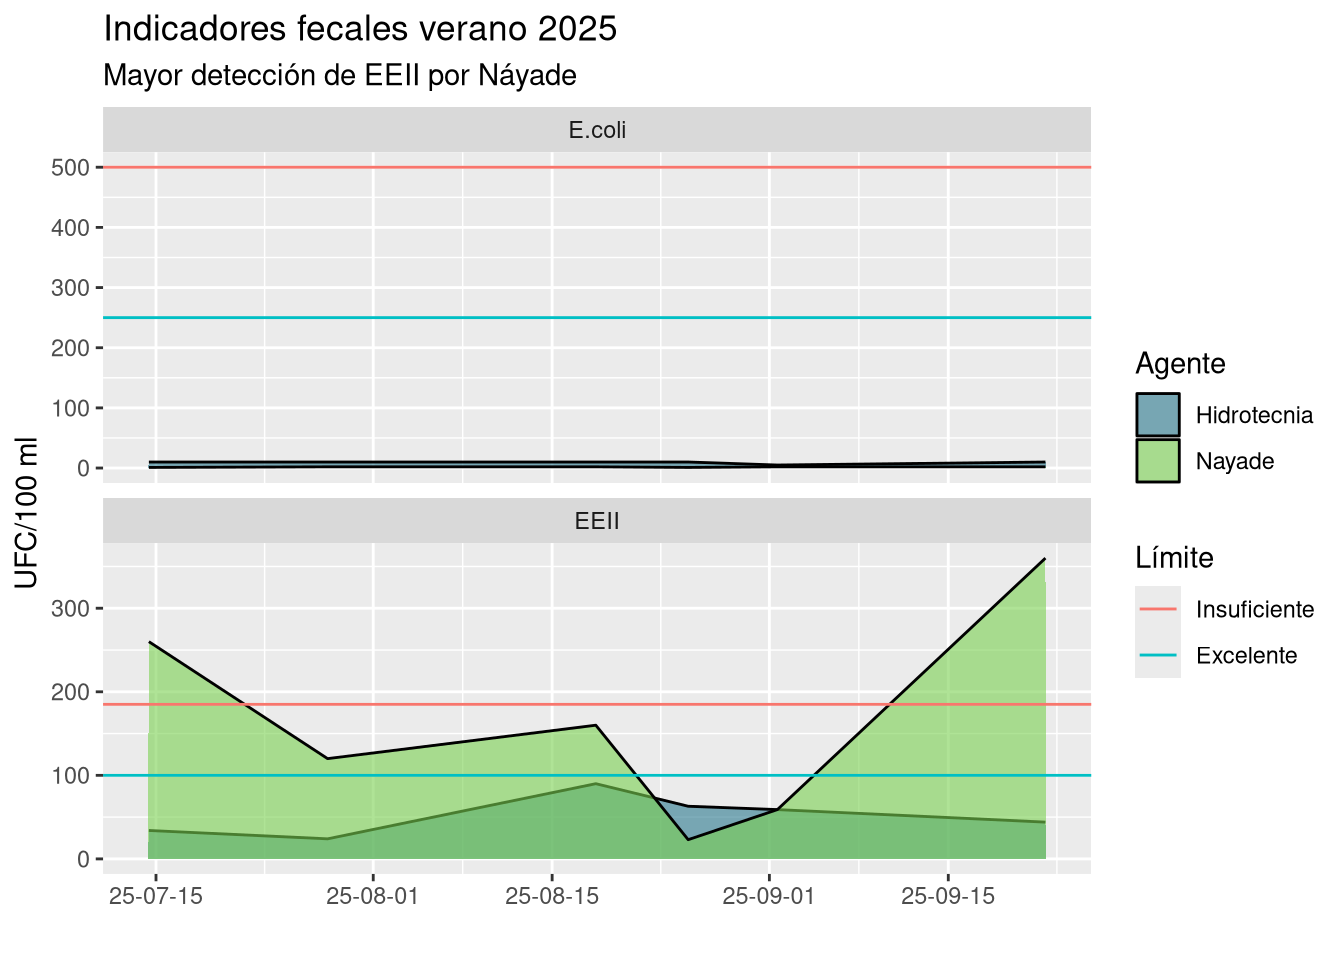
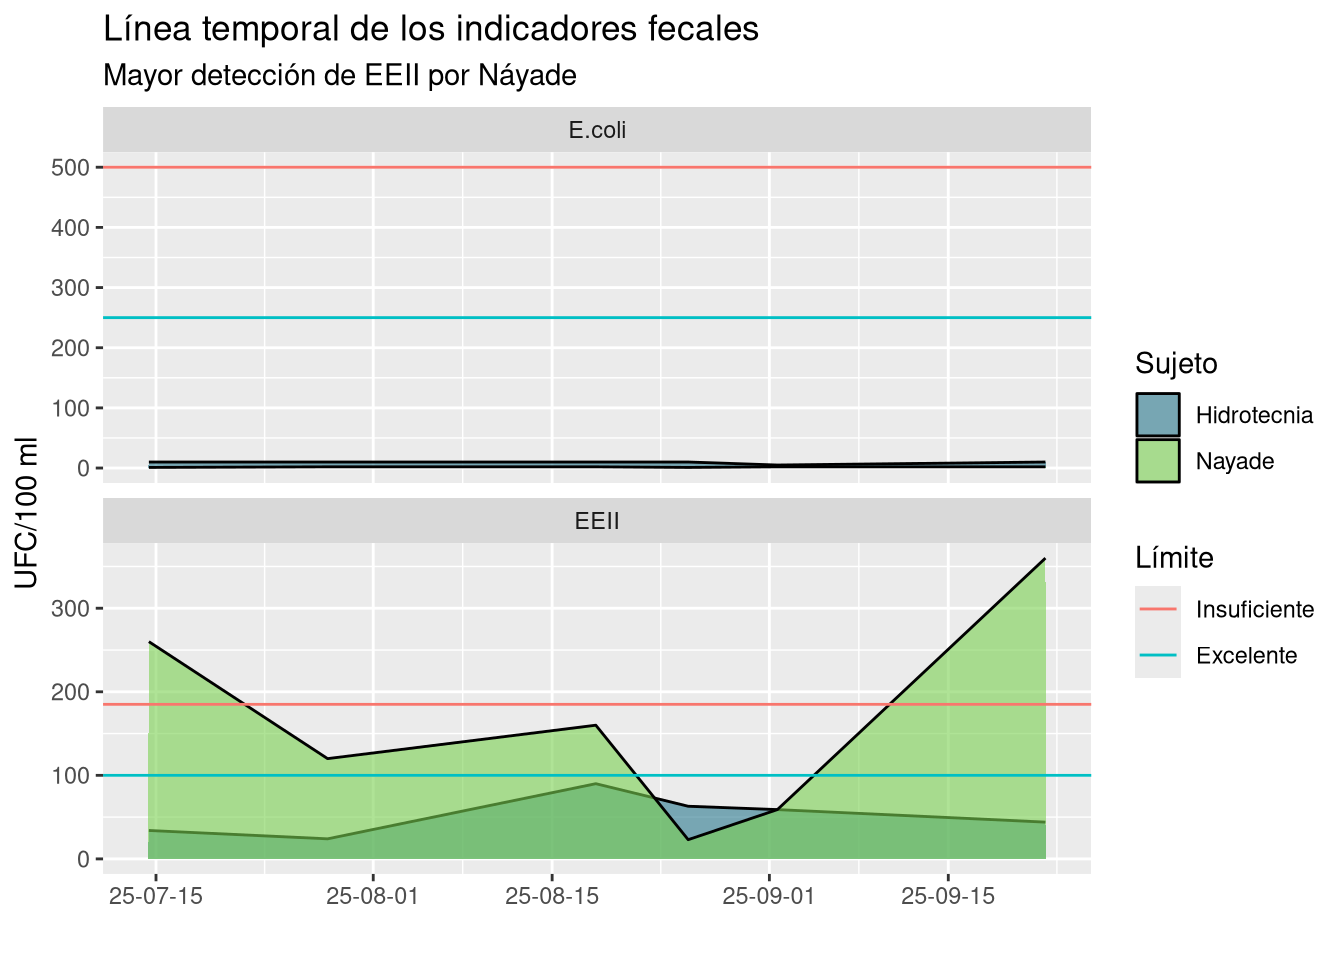
Sustituido 'agente' por 'sujeto' en indicadores.qmd

Changed region(s): [[0.0938, 0.0, 0.5625, 0.0625], [0.8438, 0.3438, 0.9062, 0.4062]]

diff --git a/docs/indicadores.html b/docs/indicadores.html
@@ -200,7 +200,7 @@ div.csl-indent {
    
   <ul>
   <li><a href="#vista-general" id="toc-vista-general" class="nav-link active" data-scroll-target="#vista-general">Vista general</a></li>
-  <li><a href="#agente-muestreador" id="toc-agente-muestreador" class="nav-link" data-scroll-target="#agente-muestreador">Agente muestreador</a></li>
+  <li><a href="#sujeto-muestreador" id="toc-sujeto-muestreador" class="nav-link" data-scroll-target="#sujeto-muestreador">Sujeto muestreador</a></li>
   <li><a href="#ciclo-de-mareas" id="toc-ciclo-de-mareas" class="nav-link" data-scroll-target="#ciclo-de-mareas">Ciclo de mareas</a></li>
   </ul>
 </nav>
@@ -237,7 +237,7 @@ div.csl-indent {
 <section id="vista-general" class="level2">
 <h2 class="anchored" data-anchor-id="vista-general">Vista general</h2>
 <p>Los episodios periódicos de contaminación fecal en la playa de El Confital se monitorearon durante el verano 2025. La bacteria <em>E.coli</em> se detectó en todas las muestras dentro de los valores de calidad excelente del agua establecidos por la normativa<span class="citation" data-cites="boe2007"><sup><a href="#ref-boe2007" role="doc-biblioref">1</a></sup></span>.</p>
-<p>El Ministerio de Sanidad (Náyade) y AT Hidrotecnia SL (Hidrotecnia) fueron los dos agentes responsables del monitoreo de indicadores de contaminación fecal. Atendiendo a la distribución de resultados obtenidos (<a href="#fig-general" class="quarto-xref">Figura&nbsp;1</a>), observamos una mayor dispersión según Náyade que respecto de Hidrotecnia. Además, únicamente los valores de Náyade superaron en 2 ocasiones el umbral de calidad de agua insuficiente para EEII.</p>
+<p>El Ministerio de Sanidad (Náyade) y AT Hidrotecnia SL (Hidrotecnia) son los dos sujetos responsables de monitorear los indicadores de contaminación fecal. Atendiendo a la distribución de resultados obtenidos (<a href="#fig-general" class="quarto-xref">Figura&nbsp;1</a>), observamos una mayor dispersión según Náyade que respecto de Hidrotecnia. Además, únicamente los valores de Náyade superaron en 2 ocasiones el umbral de calidad de agua insuficiente para EEII.</p>
 <p>La problemática reside en los repuntes de EEII, siendo los meses de julio y septiembre 2025 donde se dieron los episodios de calidad insuficiente del agua.</p>
 <div class="cell">
 <div class="cell-output-display">
@@ -254,31 +254,31 @@ Figura&nbsp;1
 </div>
 </div>
 </section>
-<section id="agente-muestreador" class="level2">
-<h2 class="anchored" data-anchor-id="agente-muestreador">Agente muestreador</h2>
+<section id="sujeto-muestreador" class="level2">
+<h2 class="anchored" data-anchor-id="sujeto-muestreador">Sujeto muestreador</h2>
 <div class="cell">
 <div class="cell-output-display">
-<div id="fig-agente" class="quarto-float quarto-figure quarto-figure-center anchored" width="672">
+<div id="fig-sujeto" class="quarto-float quarto-figure quarto-figure-center anchored" width="672">
 <figure class="quarto-float quarto-float-fig figure">
-<div aria-describedby="fig-agente-caption-0ceaefa1-69ba-4598-a22c-09a6ac19f8ca">
-<img src="indicadores_files/figure-html/fig-agente-1.png" id="fig-agente" class="img-fluid figure-img" width="672">
+<div aria-describedby="fig-sujeto-caption-0ceaefa1-69ba-4598-a22c-09a6ac19f8ca">
+<img src="indicadores_files/figure-html/fig-sujeto-1.png" id="fig-sujeto" class="img-fluid figure-img" width="672">
 </div>
-<figcaption class="quarto-float-caption-bottom quarto-float-caption quarto-float-fig quarto-uncaptioned" id="fig-agente-caption-0ceaefa1-69ba-4598-a22c-09a6ac19f8ca">
+<figcaption class="quarto-float-caption-bottom quarto-float-caption quarto-float-fig quarto-uncaptioned" id="fig-sujeto-caption-0ceaefa1-69ba-4598-a22c-09a6ac19f8ca">
 Figura&nbsp;2
 </figcaption>
 </figure>
 </div>
 </div>
 </div>
-<p>Para estimar estadísticamente si existen diferencias significativas entre los resultados obtenidos por ambos agentes, utilizamos la prueba de la <em>t</em> de <em>Student</em> para los valores emparejados por la misma muestra de agua. En la <a href="#fig-t-eeii-agente" class="quarto-xref">Figura&nbsp;3</a> se observa como la diferencia de EEII entre Náyade e Hidrotecnia no es significativa con los datos disponibles. <strong>Probablemente la mayor detección de Náyade se deba al azar</strong> (<em>p</em> valor &gt; 0,05).</p>
+<p>Para estimar estadísticamente si existen diferencias significativas entre los resultados obtenidos por ambos sujetos, utilizamos la prueba de la <em>t</em> de <em>Student</em> para los valores emparejados por la misma muestra de agua. En la <a href="#fig-t-eeii-sujeto" class="quarto-xref">Figura&nbsp;3</a> se observa como la diferencia de EEII entre Náyade e Hidrotecnia no es significativa con los datos disponibles. <strong>Probablemente la mayor detección de Náyade se deba al azar</strong> (<em>p</em> valor &gt; 0,05).</p>
 <div class="cell">
 <div class="cell-output-display">
-<div id="fig-t-eeii-agente" class="quarto-float quarto-figure quarto-figure-center anchored" width="672">
+<div id="fig-t-eeii-sujeto" class="quarto-float quarto-figure quarto-figure-center anchored" width="672">
 <figure class="quarto-float quarto-float-fig figure">
-<div aria-describedby="fig-t-eeii-agente-caption-0ceaefa1-69ba-4598-a22c-09a6ac19f8ca">
-<img src="indicadores_files/figure-html/fig-t-eeii-agente-1.png" id="fig-t-eeii-agente" class="img-fluid figure-img" width="672">
+<div aria-describedby="fig-t-eeii-sujeto-caption-0ceaefa1-69ba-4598-a22c-09a6ac19f8ca">
+<img src="indicadores_files/figure-html/fig-t-eeii-sujeto-1.png" id="fig-t-eeii-sujeto" class="img-fluid figure-img" width="672">
 </div>
-<figcaption class="quarto-float-caption-bottom quarto-float-caption quarto-float-fig quarto-uncaptioned" id="fig-t-eeii-agente-caption-0ceaefa1-69ba-4598-a22c-09a6ac19f8ca">
+<figcaption class="quarto-float-caption-bottom quarto-float-caption quarto-float-fig quarto-uncaptioned" id="fig-t-eeii-sujeto-caption-0ceaefa1-69ba-4598-a22c-09a6ac19f8ca">
 Figura&nbsp;3
 </figcaption>
 </figure>
